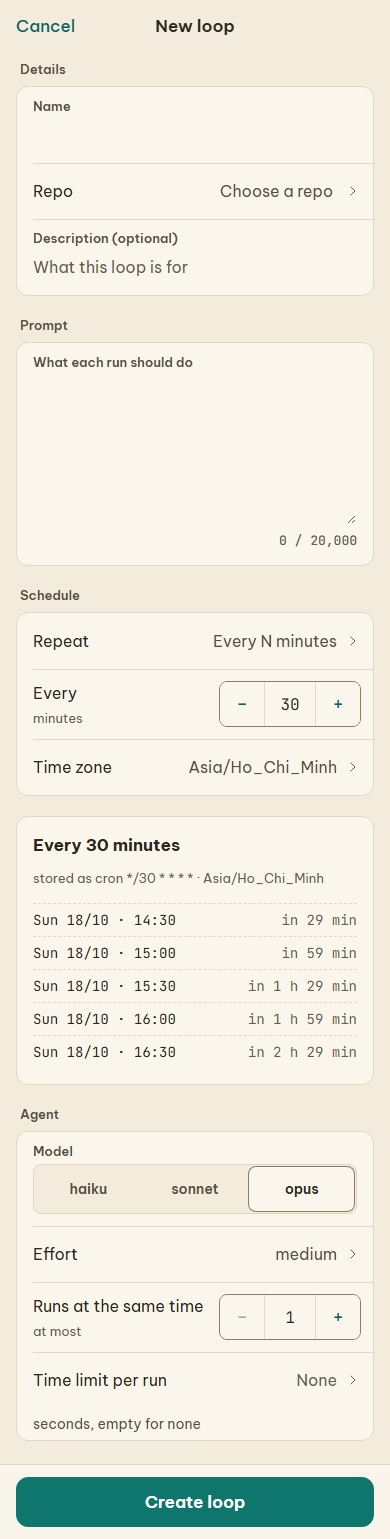
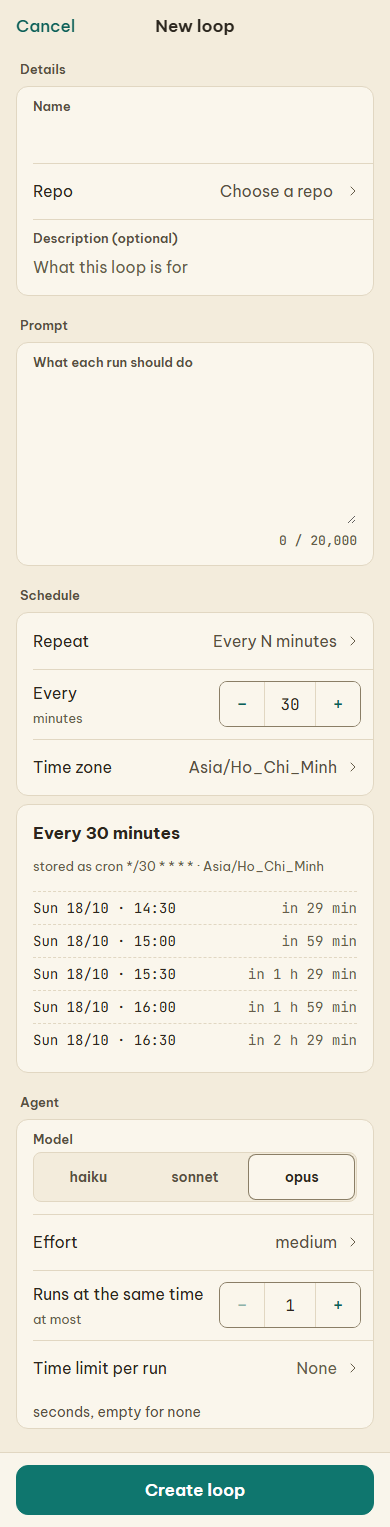
fix: a phone note or card that a captioned group carries sits 8 px under it, as the editor board draws (U27 defect, epic 63) (#208)
* fix: a phone note or card that a captioned group carries sits 8 px under it, as the editor board draws (U27 defect, epic 63)

* test: prettier

* design: re-shoot the phone editor states, record the note spacing correction (castraferrum#205)

* design: re-shoot the phone editor states on the rebased tree (castraferrum#205)

---------

diff --git a/tests/visual/ds/layout.visual.ts b/tests/visual/ds/layout.visual.ts
@@ -329,3 +329,89 @@ test.describe("phone section captions (castraferrum#202)", () => {
     }
   });
 });
+
+test.describe("phone notes and cards after a captioned group (castraferrum#205)", () => {
+  test.use(PHONE_VIEW);
+  const ctx = useServer();
+
+  /** Every visible box that follows a captioned `.group` and is not the next caption or head: its name and its gap to the group. */
+  const trailing = (page: Page) =>
+    page.evaluate(() => {
+      const flow = (el: Element): Element[] =>
+        [...el.children].flatMap((c) =>
+          getComputedStyle(c).display === "contents" ? flow(c) : [c],
+        );
+      const out: { name: string; gap: number }[] = [];
+      const page = document.querySelector(".page")!;
+      // The fixed action bar is not in the flow.
+      const kids = flow(page).filter(
+        (c) =>
+          c.getClientRects().length && getComputedStyle(c).position !== "fixed",
+      );
+      kids.forEach((el, i) => {
+        const group = kids[i - 1];
+        if (
+          !group?.matches(".group") ||
+          !kids[i - 2]?.matches(".group-cap") ||
+          el.matches(".group-cap, .section-head, .group")
+        )
+          return;
+        out.push({
+          name: `${el.className}${el.getAttribute("data-testid") ? `#${el.getAttribute("data-testid")}` : ""}`,
+          gap: Math.round(
+            el.getBoundingClientRect().top -
+              group.getBoundingClientRect().bottom,
+          ),
+        });
+      });
+      return out;
+    });
+
+  test("a note, card or button that a section's group carries sits --space-2 under the group, as m-form-light.png draws", async ({
+    page,
+  }) => {
+    await ctx.world(page);
+    const pilot = loopId("pilot", DS_DATA_JS);
+    await page.goto(`${ctx.sp.baseUrl}/settings`);
+    const gap = await tokenPx(page, "--space-2");
+    // [state, how to reach it, what must follow a captioned group]
+    const states: [string, () => Promise<void>, string[]][] = [
+      [
+        "edit loop (repo note, schedule preview)",
+        () => page.goto(`${ctx.sp.baseUrl}/loops/${pilot}/edit`).then(() => {}),
+        ["group-note", "card is-pad#sched-out"],
+      ],
+      [
+        "new loop, mock agent (its note)",
+        async () => {
+          await page.goto(`${ctx.sp.baseUrl}/loops/new`);
+          await page.getByTestId("f-executor-mock").click();
+        },
+        ["card is-pad#sched-out", "note"],
+      ],
+      [
+        "new loop, no repo (Register a repo)",
+        async () => {
+          await page.goto("about:blank");
+          expect((await ctx.sp.api("POST", "/api/__test/reset")).status).toBe(
+            204,
+          );
+          await page.goto(`${ctx.sp.baseUrl}/loops/new`);
+        },
+        ["btn#repo-go-register", "card is-pad#sched-out"],
+      ],
+    ];
+    for (const [state, reach, names] of states) {
+      await reach();
+      await expect(page.locator(".skeleton")).toHaveCount(0);
+      await expect
+        .poll(async () => (await trailing(page)).map((t) => t.name), {
+          message: state,
+        })
+        .toEqual(names);
+      await page.evaluate(() => document.fonts.ready);
+      for (const t of await trailing(page))
+        expect.soft(t.gap, `${state}: "${t.name}" under its group`).toBe(gap);
+    }
+  });
+});

diff --git a/design/ds/components.css b/design/ds/components.css
@@ -299,10 +299,13 @@ body {
   /* A caption and what it captions are one section (reference/m-*.png): the caption sits --space-2 above its list, card,
      command or code, not the page's --space-5 apart. Inside a section (under its head, or before its second list: Earlier
      active periods) it sits --space-2 under what is above it too; a caption that opens the page (the editor, under the
-     bar) sits --space-2 under the bar, as a page head does. */
+     bar) sits --space-2 under the bar, as a page head does. A note, card or button that the captioned list carries (the
+     editor's repo note, schedule preview, mock agent note, Register a repo) is in the same section: --space-2 under the
+     list (reference/m-form-light.png). */
   .page .group-cap { margin-bottom: calc(var(--space-2) - var(--space-5)); }
   .section-head + .group-cap, .section-head + .group-cap + .group + .group-cap { margin-top: calc(var(--space-2) - var(--space-5)); }
   .page > .group-cap:first-child, .page > form:first-child > .group-cap:first-child { margin-top: var(--space-2); }
+  .group-cap + .group + :is(.group-note, .note, .card, .btn) { margin-top: calc(var(--space-2) - var(--space-5)); }
 }
 .cell {
   position: relative; display: flex; align-items: center; gap: var(--space-3); width: 100%; min-height: var(--size-row-sm);

diff --git a/design/APPROVED.md b/design/APPROVED.md
@@ -395,3 +395,20 @@ behaviour wins, the preview is corrected and re-shot, this file records it; the 
 
 All shots re-shot with `npm run design:shots -- --design design/ds --compress`, light and dark: 26 shots changed (the 13
 states above), no other shot.
+
+## Agent correction under the owner's rule of 2026-10-23 - phone notes and cards under their group, 2026-10-24
+
+Made by the agent of the U27 defect lane "editor note spacing" (epic 63) under the rule in the epic's body (the owner is
+not asked). castraferrum#205: on the phone what a captioned group carries right after it sat the page's `--space-5`
+(20px) under the group; `reference/m-form-light.png` draws `--space-2` (8px): the Details group ends at y 287 and the
+repo note's line starts at y 296, the Schedule group ends at y 817 and the schedule preview card starts at y 826 (the
+boards' sections are one column with an 8px gap). The "Captions on the phone" rule of
+[`ds/SYSTEM.md`](ds/SYSTEM.md) now covers it, with one selector in [`ds/components.css`](ds/components.css) ("Inset
+list"): a `.group-note`, `.note`, `.card` or `.btn` right after a captioned `.group` sits `--space-2` under it. The app
+has four such parts, all in the editor: the repo note, the schedule preview, the mock agent's note and Register a repo
+(no repo yet); `tests/visual/ds/layout.visual.ts` finds and measures each of them in the real app. No other phone board
+draws a note or card under a group on a page (the folder sheet's hint keeps the sheet's own `--space-3`).
+
+Re-shot with `npm run design:shots -- --design design/ds`, light and dark (10 shots), the phone editor states:
+`phone-form-new`, `phone-form-errors`, `phone-form-repo-pick`, `phone-form-sched-daily`, `phone-form-sched-weekly`.
+No other shot changed.

diff --git a/design/ds/SYSTEM.md b/design/ds/SYSTEM.md
@@ -306,8 +306,11 @@ Screens put kit components together in `web/features/`. Never add a class that i
   the boards draw it (`reference/m-*.png`): the caption sits `--space-2` above it, while sections stay the page's
   `--space-5` apart. Inside a section the caption sits `--space-2` under what is above it too: under a `.section-head`
   (the current period of Recent runs) and before the section's second group (Earlier active periods). A caption that
-  opens the page (the editor, under the bar) sits `--space-2` under the bar, as a page head does. One rule of
-  `components.css` ("Inset list") does this for every screen; a screen never sets a caption's margins.
+  opens the page (the editor, under the bar) sits `--space-2` under the bar, as a page head does. What a captioned
+  group carries right after it, a `.group-note`, a `.note`, a `.card` or a `.btn` (the editor's repo note, schedule
+  preview, mock agent note and Register a repo), belongs to the same section and sits `--space-2` under the group
+  (`reference/m-form-light.png`). One rule of `components.css` ("Inset list") does this for every screen; a screen
+  never sets a caption's or a note's margins.
 - **Data text.** A path, an address or a version in a cell is `.cell-meta.is-data` or `.cell-value.is-data`
   (`--font-data`). `.cell-row` wraps its parts onto the next line when they do not fit. A `.cell-meta` made of
   spans (a loop row: repo, short schedule, next run) wraps between its spans, never inside one; `.is-one-line` cuts
